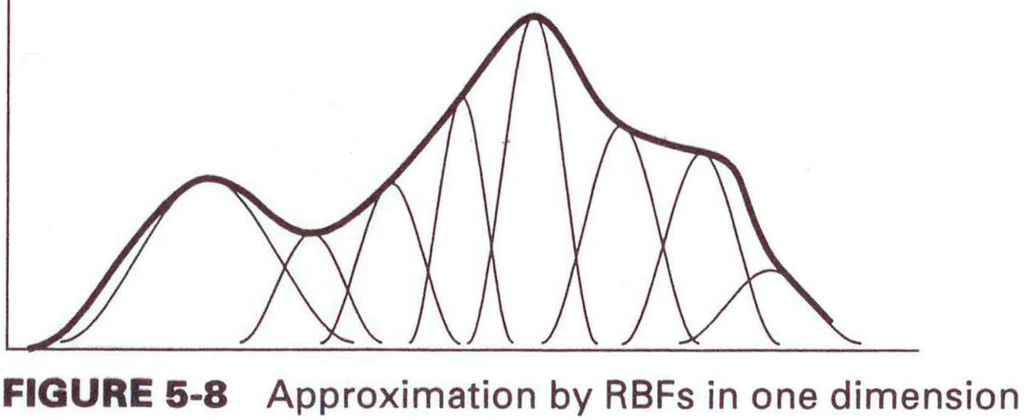
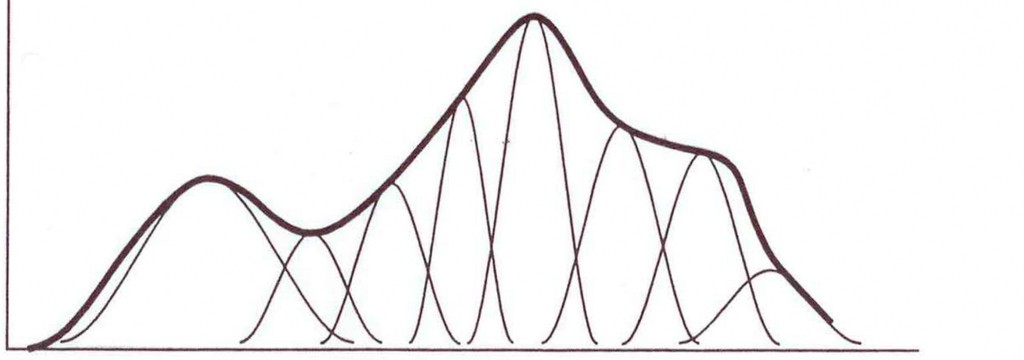
lec7: fx typo

Changed region(s): [[0.0, 0.0306, 1.0, 1.0]]

diff --git a/main_lec7.tex b/main_lec7.tex
@@ -2,6 +2,7 @@
 % !TeX encoding = utf8
 % !TeX program = xelatex
 % !BIB program = bibtex
+
 % \documentclass[mathserif,compress,12pt]{ctexbeamer}
 \documentclass[12pt,notes,mathserif]{beamer}
 % \documentclass[draft]{beamer}	
@@ -145,7 +146,7 @@
 \begin{frame}[c]
 	\titlepage
 	\begin{center}
-		Adapted from slides provided by Prof.  Michael Mandel.		
+		Adapted from slides provided by Prof.  Michael Mandel.
 	\end{center}
 \end{frame}
 
@@ -201,9 +202,9 @@
 \begin{frame}[c]
 	\frametitle{Linear projection}
 	\begin{itemize}
-		\item Approximate function f (x) by a linear combination of simpler functions
+		\item Approximate function $f(x)$ by a linear combination of simpler functions
 		      \[
-			      F(\mathbf{x})=\sum_jw_j\varphi_j(\mathbf{x})
+			      f(\mathbf{x})=\sum_jw_j\varphi_j(\mathbf{x})
 		      \]
 		\item If $w_j$'s can be chosen so that approximation error is arbitrarily small for any function $f(x)$ over the domain of interest, then $\{\varphi_j\}$ has the property of universal approximation, or $\{\varphi_j\}$ is complete𝑗
 
@@ -213,8 +214,8 @@
 \begin{frame}[c]
 	\frametitle{Example incomplete basis: $\mathrm{sinc}$}
 	\[
-		\sin c(x)=\frac{\sin(\pi x)}{\pi x}\qquad
-		\varphi_j(x)=\sin c(x-\mu_j)
+		\mathrm{sinc}(x)=\frac{\sin(\pi x)}{\pi x}\qquad
+		\varphi_j(x)=\mathrm{sinc}(x-\mu_j)
 	\]\vspace*{-5mm}
 	\begin{itemize}
 		\item Can approximate any smooth function
@@ -236,9 +237,11 @@
 			{\rm Complete~on~the~interval}~[0,1]
 		\end{array}
 	\end{equation*}
-	\begin{center}
+	\begin{figure}
+		\centering
 		\includegraphics[width=0.95\linewidth]{fig/lec78.jpg}
-	\end{center}
+		\caption{Decomposition by sine waves}
+	\end{figure}
 \end{frame}
 
 % 9
@@ -263,8 +266,8 @@
 \begin{frame}[c]
 	\frametitle{Radial basis functions}
 	\begin{itemize}
-		\item 𝑖A radial basis function (RBF) is a basis function of the form $\varphi_j(\mathbf{x})=\varphi(||\mathbf{x}-\mathbf{\mu}_j||)$
-		      𝑤𝑤
+		\item 𝑖A radial basis function (RBF) is a basis function of the form $\varphi_j(\mathbf{x})=\varphi(||\mathbf{x}-\vmu_j||)$
+
 		      \begin{itemize}
 			      \item Where $\varphi(r)$ is positive w/monotonic derivative for $r> 0$
 		      \end{itemize}
@@ -289,7 +292,7 @@
 		      \]
 		\item Gaussians are universal approximators
 		      \begin{itemize}
-			      \item I.e., they form a complete basis
+			      \item \ie, they form a complete basis
 		      \end{itemize}
 	\end{itemize}
 	\begin{center}
@@ -300,16 +303,18 @@
 % 12
 \begin{frame}[c]
 	\frametitle{RBF net illustration}
-	\begin{center}
+	\begin{figure}
+		\centering
 		\includegraphics[width=0.99\linewidth]{fig/lec712.jpg}
-	\end{center}
+		\caption{Approximation by RBFs in one dimension}
+	\end{figure}
 \end{frame}
 
 % 13
 \begin{frame}[c]
 	\frametitle{Remarks (cont.)}
 	\begin{itemize}
-		\item Other RBFs exist, but we won’t be using them
+		\item Other RBFs exist, but we won't be using them
 		\item Multiquadrics
 		      \[
 			      \varphi(x)=\sqrt{x^2+c^2}
@@ -320,7 +325,7 @@
 		      \]
 		\item Micchelli's theorem (1986)
 		      \begin{itemize}
-			      \item Let $\{x_i\}$ be a set of 𝑁𝑁 distinct points, $\varphi(\cdot)$ be an RBF
+			      \item Let $\{x_i\}$ be a set of $N$ distinct points, $\varphi(\cdot)$ be an RBF
 			      \item Then the matrix $\phi_{ij}=\varphi(||\mathbf{x}_i-\mathbf{x}_j||)$ is non-singular
 		      \end{itemize}
 	\end{itemize}
@@ -330,8 +335,10 @@
 \begin{frame}[c]
 	\frametitle{Four questions to answer for RBF nets}
 	\begin{itemize}
+		% \tightlist
 		\item If we want to use Gaussian RBFs to approximate a function specified by training data
 		      \begin{enumerate}
+			    %   \tightlist
 			      \item How do we choose the Gaussian centers?
 			      \item How do we determine the Gaussian widths?
 			      \item How do we determine the weights $w_j$?
@@ -345,6 +352,7 @@
 \begin{frame}[c]
 	\frametitle{1. How do we choose the Gaussian centers?}
 	\begin{itemize}
+		\tightlist
 		\item Easy way: select K data points at random
 		\item Potentially better way: unsupervised clustering, e.g. using the K-means algorithm
 	\end{itemize}
@@ -359,7 +367,7 @@
 		      \[
 			      J=\sum_{j=1}^K\sum_{i\in C_j} ||\mathbf{x}_i-\mathbf{u}_j||^2
 		      \]
-		      where $\mathbf{u}_j=\dfrac{1}{||C_j||}\sum_{i\in C_j}\mathbf{x}_i$ is  the mean (center) of cluster $j$
+		      where $\mathbf{u}_j=\dfrac{1}{||C_j||}\sum_{i\in C_j}\mathbf{x}_i$ is  the mean (center) of cluster~$j$
 	\end{itemize}
 \end{frame}
 
@@ -370,7 +378,7 @@
 		\item Choose a set of $K$ cluster centers randomly from the input patterns
 		\item Assign the $N$ input patterns to the $K$ clusters using the squared Euclidean distance rule:
 
-		      $x$ is assigned to $C_j$ if $||\mathbf{x}-\mathbf{u}_j||^2\le ||\mathbf{x}-\mathbf{u}_j||^2$ for all $i\neq j$
+		      $x$ is assigned to $C_j$ if $||\mathbf{x}-\mathbf{u}_j||^2\le ||\mathbf{x}-\mathbf{u}_i||^2$ for all $i\neq j$
 		\item Update cluster centers
 		      \[
 			      \mathbf{u}_j=\frac{1}{|C_j|}\sum_{i\in C_j}\mathbf{x}_i

diff --git a/main_lec6.tex b/main_lec6.tex
@@ -218,7 +218,7 @@
 		      \end{itemize}
 		\item Divide by standard deviation
 		      \begin{itemize}
-			      \item Or whiten by multiplying by the square root of the covariance matrix
+			      \item Or whiten by multiplying by the inverse of square root of the covariance matrix
 
 			      \item Make dimensions commensurate
 
@@ -252,12 +252,9 @@
 	\frametitle{Weight initialization}
 	\begin{itemize}
 		\item Break symmetry by initializing with random values
-		\item If inputs are normalized, they are uncorrelated, with zero-mean, and unit-variance
-
-		\item Would like output to be approximately the same
-
-		\item So inputs to sigmoid nonlinearity must be too
-
+		\item If inputs are normalized, they are uncorrelated, with zero-mean, and unit-variance, and all weights are initialized to 0, 
+		\item Then, every neuron in the network computes the same output, and also computes the same gradients during backpropagation and undergoes the exact same parameter updates. The network never converges. 
+		\item Break symmetry accelerate convergence.
 	\end{itemize}
 \end{frame}
 
